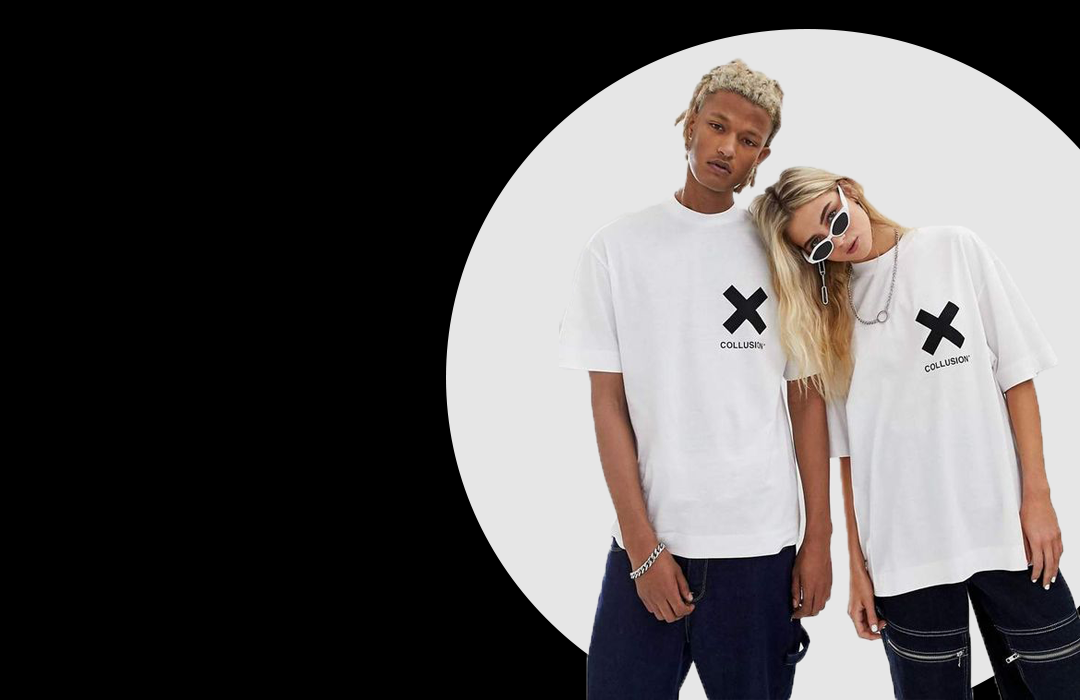
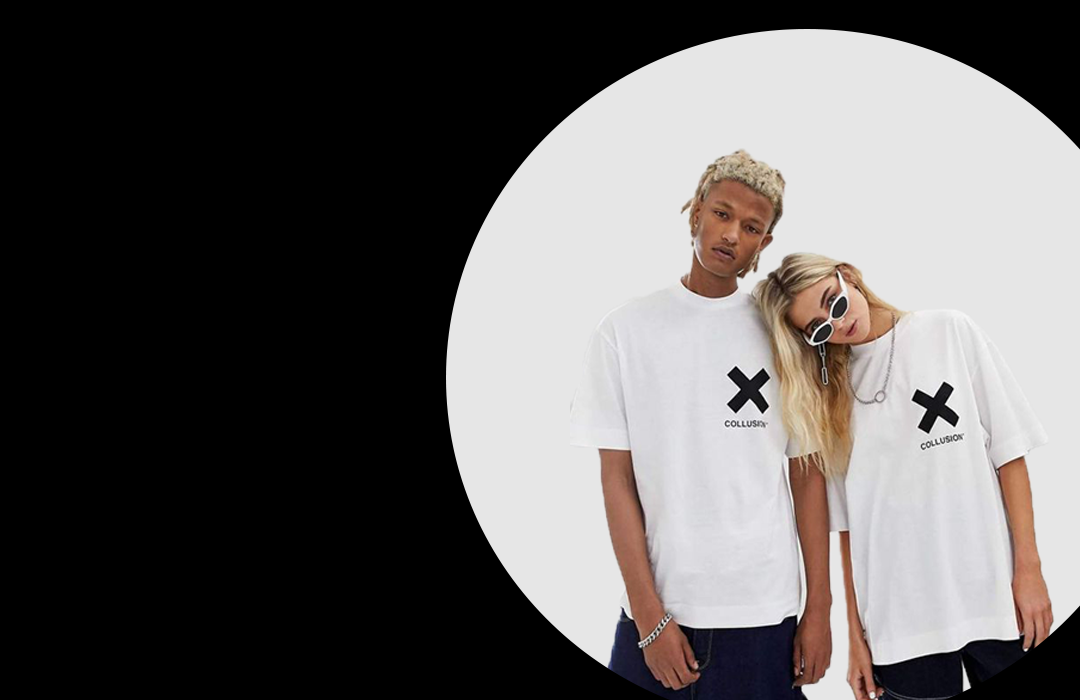
homepage changes

Changed region(s): [[0.5194, 0.09, 1.0, 1.0], [0.55, 0.45, 0.5806, 0.48]]

diff --git a/public/css/top&sidecss.css b/public/css/top&sidecss.css
@@ -38,7 +38,6 @@ font-size: 20px;
 }
 .head ul li a:hover /*hover effect of acc / cart/wishlist */
 {
-background-color: #000000;
 transition: 2s all ease;
 padding-top: 30px;
 }
@@ -342,6 +341,20 @@ padding-left: 20px;
 
 /*--------------------------------------------------*/
 /* Main image in the homepage andbutton */
+#hero2
+{
+  background-image:url(../images/testhm2.png);
+height: 100vh;
+width: 89%;
+background-position: top 25% right 0;
+background-size: cover;
+padding: 0 80px;
+display: flex;
+align-items: flex-start;
+justify-content: center;
+flex-direction: column;
+border-radius: 4px;
+}
 #hero
 {
 background-image:url(../images/testhm.png);
@@ -355,7 +368,6 @@ align-items: flex-start;
 justify-content: center;
 flex-direction: column;
 border-radius: 4px;
-border: 4px solid black;
 }
 #hero button
 {
@@ -382,6 +394,21 @@ padding: 40px 80px;
     height: 98.05%;
 
 }
+.textcontainer2 .text2
+{
+  z-index: 6;
+  text-align: center;
+  position: absolute;
+ font-family: 'Righteous', cursive;
+ font-size:60px; 
+ top:28%;
+ left: 70%;
+ color: #000000;
+ font-style: italic;
+height: auto;
+-webkit-text-stroke: #fff;
+-webkit-text-stroke-width: 1px;
+}
 .textcontainer .text /*text in the middle of photo */
 {
   z-index: 6;
@@ -389,8 +416,8 @@ padding: 40px 80px;
   position: absolute;
  font-family: 'Righteous', cursive;
  font-size:60px; 
- top:10%;
- left: 20%;
+ top:9%;
+ left: 18%;
  color: #000000;
  font-style: italic;
 height: auto;
@@ -402,8 +429,8 @@ height: auto;
   height: auto;
   z-index: 6;
   position: absolute;
-  top: 18%;
-  left: 24%;
+  top: 16%;
+  left: 22%;
 font-family: Arial, Helvetica, sans-serif;
   background-color: rgb(0, 0, 0);
   color: white;
@@ -412,6 +439,7 @@ font-family: Arial, Helvetica, sans-serif;
  border: solid 0px;
  border-radius: 5px;
   padding: 8px 8px 8px 8px;
+  border: 4px solid white;
 }
 .butt:hover /*hovering effect of the button */
 {

diff --git a/public/css/navbarcss.css b/public/css/navbarcss.css
@@ -2,7 +2,7 @@
 
 nav.head{
 background: black;
-height: 40px;
+height: 50px;
 margin-top: 0;
 }
 
@@ -20,18 +20,11 @@ top: 10px;
 padding: 10px;
 }
 
-a:link{
-color:white;
-}
-
 nav.head ul li a{
 font-size: 20px;
 }
 
 .head ul li a:hover{
-transition: 3s;
-color: #000000;
-background: whitesmoke;
 padding-left: 1px;
 }
 
